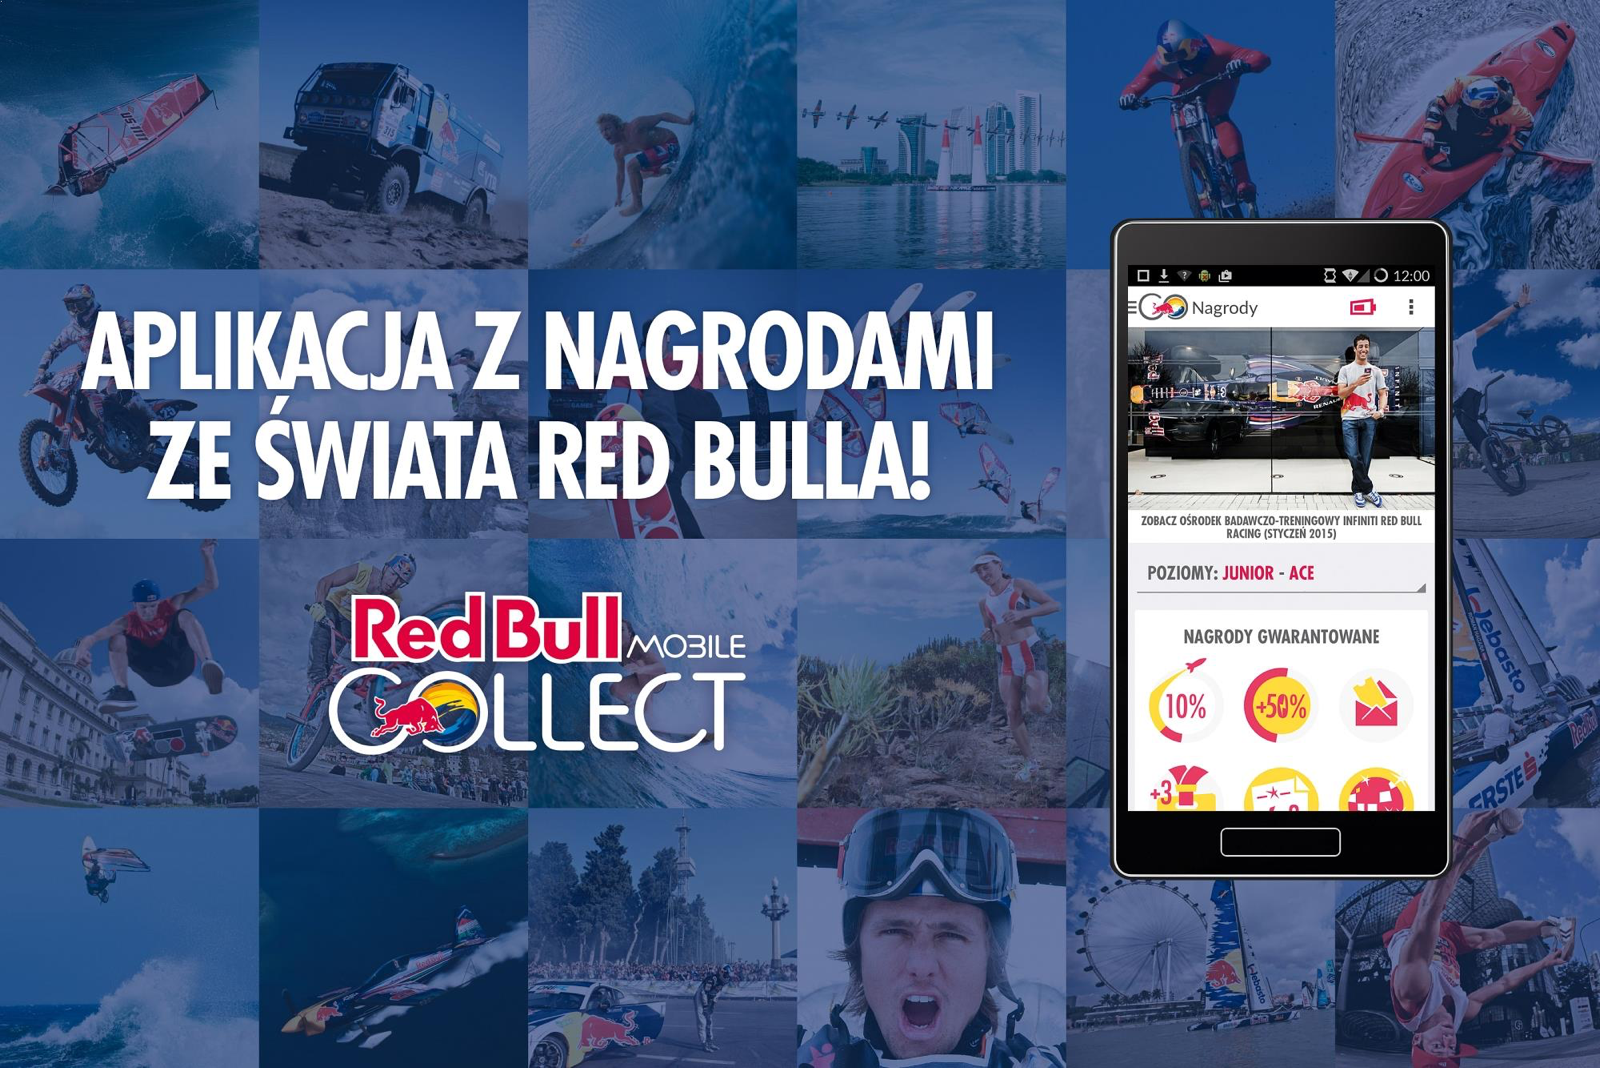
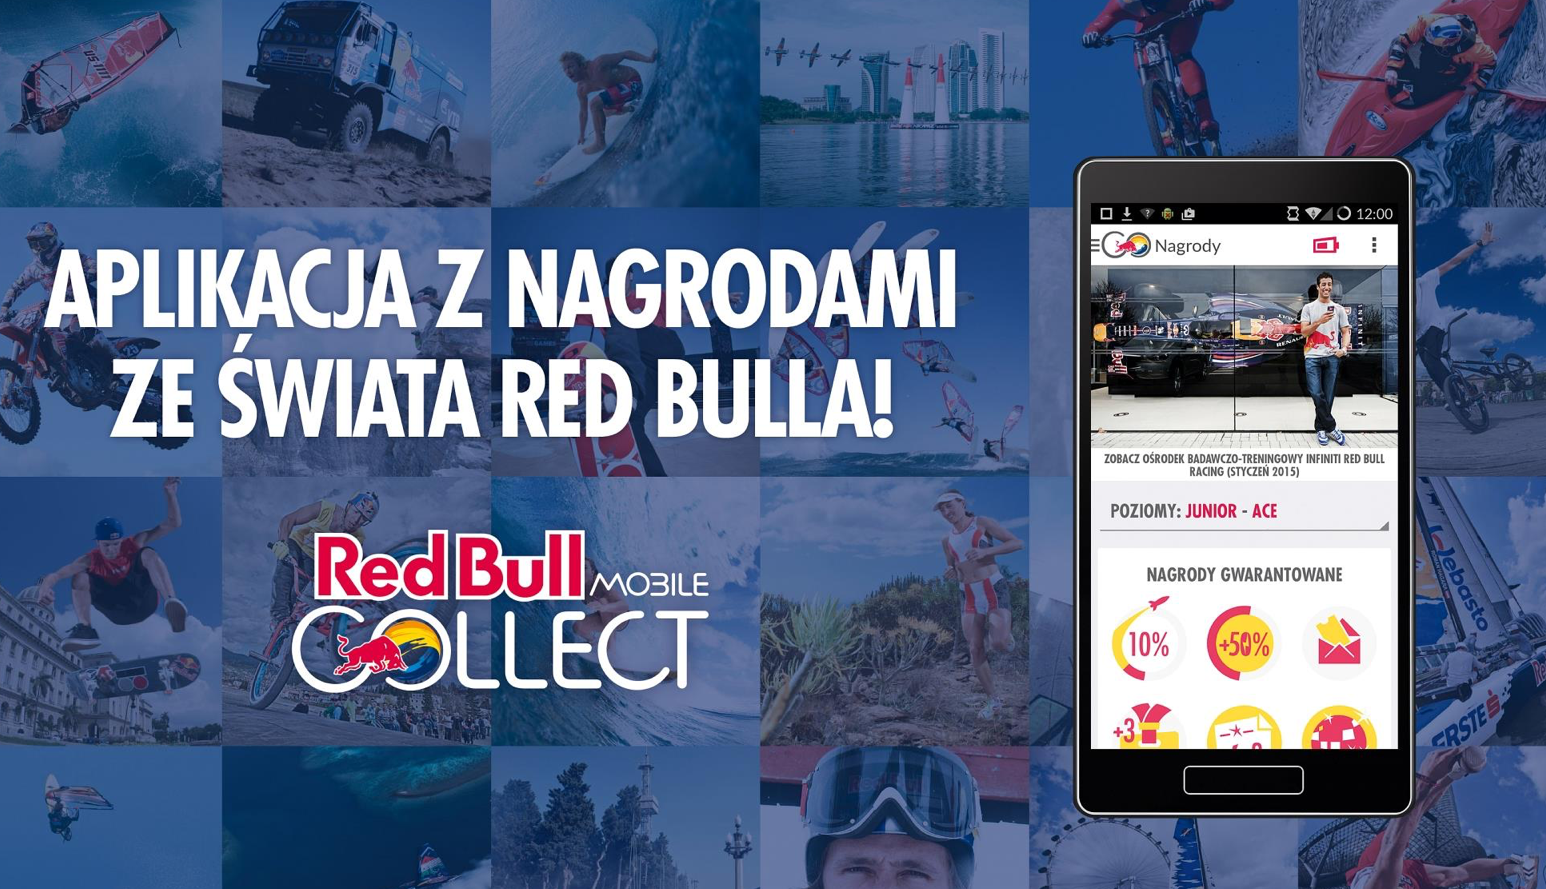
change show photos

diff --git a/src/About.css b/src/About.css
@@ -208,24 +208,27 @@
   left: 0;
   bottom: 0;
   width: 0;
-  filter: brightness(0.6) grayscale(100%);
   transition: width 1s cubic-bezier(0.55, 0.33, 0.01, 1.01);
 }
 
 .About-more-photos li:nth-child(1) {
-  background-image: url('./images/show1.jpg');
+  background-image: url('./images/show1.png');
+  filter: brightness(0.8) grayscale(50%);
 }
 
 .About-more-photos li:nth-child(2) {
-  background-image: url('./images/show2.jpg');
+  background-image: url('./images/show2.png');
+  filter: brightness(0.8) grayscale(40%);
 }
 
 .About-more-photos li:nth-child(3) {
-  background-image: url('./images/show3.jpg');
+  background-image: url('./images/show3.png');
+  filter: brightness(0.8) grayscale(80%);
 }
 
 .About-more-photos li:nth-child(4) {
-  background-image: url('./images/show4.jpg');
+  background-image: url('./images/show4.png');
+  filter: brightness(0.8) grayscale(80%);
 }
 
 .About-section {
